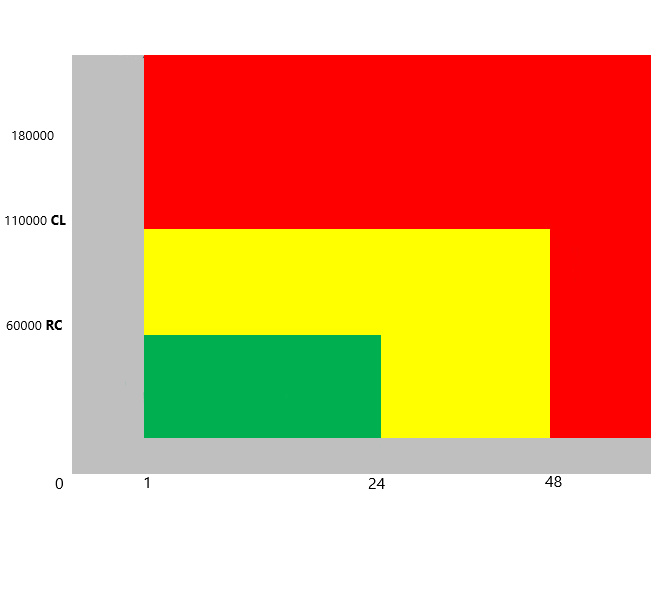
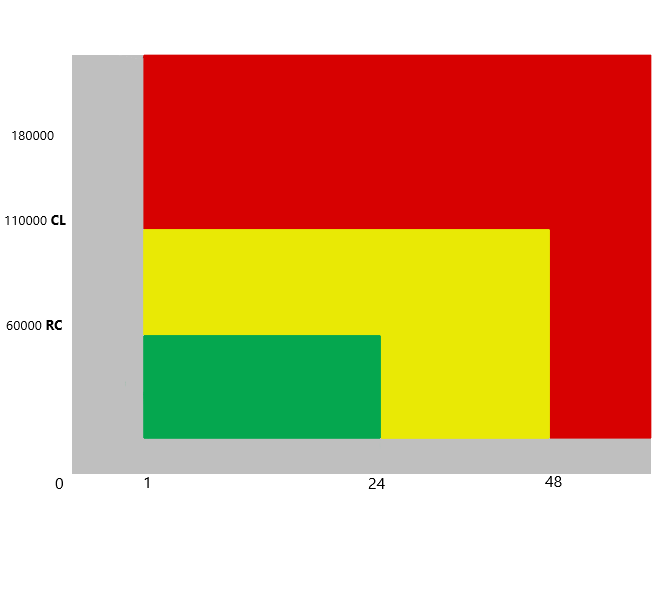
canvas background

Changed region(s): [[0.2105, 0.0902, 0.9925, 0.7513]]

diff --git a/web/game.html b/web/game.html
@@ -29,17 +29,16 @@
                                 </div>
                             </div>
                             <div class="col-6">
-                                <div class="card img-fluid">
-                                    <img class="card-img-top" src="assets/backgroundgrid.png" alt="Card Image" style="width: 100%; height: 565px;">
-                                    <div class="card-img-overlay">
-                                        <canvas id="myChart" height="200" style="padding-left: 60px;"></canvas>
+                                <div class="card" style="height: 95%;">
+                                    <div class="card-body">
+                                        <canvas id="myChart" height="150"></canvas>
                                     </div>
                                 </div>
                             </div>
                             <div class="col-3">
                                 <div class="card">
-                                    <div class="card-body h-50">
-                                        <H1 >News Feed</H1>
+                                    <div class="card-title"><H1 >News Feed</H1></div>
+                                    <div class="card-body" data-spy="scroll" style="height: 250px;">
                                         <p>Current mod: </p><p id="currentMod"></p>
                                     </div>
                                 </div>

diff --git a/web/initScript.js b/web/initScript.js
@@ -9,9 +9,9 @@ function initChart(){
             labels: xAxis,
             datasets: [
             {
-                label: '# Clients disconnected',
                 data: graphScatterValues,
                 backgroundColor: 'transparent',
+                
                 borderColor: colors[0],
                 showLine: true,
                 borderWidth: 4,

diff --git a/web/customStyle.css b/web/customStyle.css
@@ -9,3 +9,8 @@ button {
 p {
     font-size: 15px;
 }
+
+canvas{
+    background-image: url("assets/backgroundgrid.png");
+    background-repeat: no-repeat;
+}
